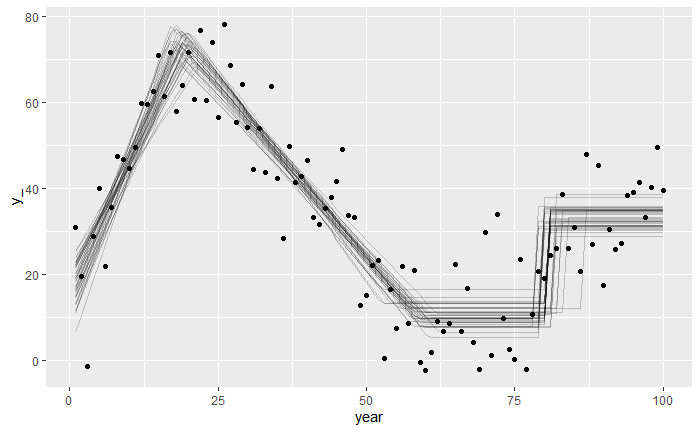
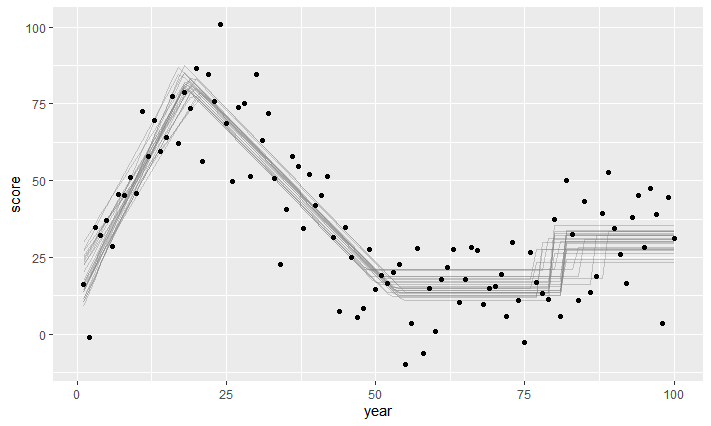
Updated fixed value stuff #16

diff --git a/README.md b/README.md
@@ -38,6 +38,8 @@ plot(fit)
 Let us specify a fairly complicated model with four segments, i.e., three change points:
 
 ```r
+library(mcp)
+
 # Define the segments that are separated by change points
 segments = list(
   score ~ 1 + year,  # intercept + slope
@@ -88,10 +90,10 @@ Quite uninformative priors are set using data by default. You can see them in `f
 
 ```r
 prior = list(
+  year_1 = "dnorm(0, 5)",  # Slope of segment 1
   int_1 = "dt(10, 30, 1) T(0, )",  # t-distributed prior. Truncated to be positive.
   cp_2 = "dunif(cp_1, 80)",  # second change point is after the first but before 80.
-  year_2 = "dnorm(0, 5)",  # slope of segment 1.
-  cp_3 = 80  # Fixed value
+  year_2 = -2  # Fixed slope of segment 2.
 )
 ```
 
@@ -103,9 +105,8 @@ prior = list(
 
 * Use SD when you specify priors for dt, dlogis, etc. JAGS uses precision but `mcp` converts to precision under the hood via the `sd_to_prec()` function.
 
-* You can fix a parameter to a specific value. Simply set it to a numerical value
-(as `cp_3` above). This is not a hack. A fixed value is a 100% prior belief that
-it is true.
+* You can fix any parameter to a specific value. Simply set it to a numerical value
+(as `year_2` above). A fixed value is a 100% prior belief in that value.
 
 
 ## Fit the model
@@ -113,24 +114,24 @@ This is the easiest step!
 
 ```r
 fit = mcp(segments, data, prior)
-fit 
+fit
 ```
 
 ```
 # A tibble: 8 x 4
   name    mean .lower .upper
   <chr>  <dbl>  <dbl>  <dbl>
-1 cp_1   18.5   15.9   20.7 
-2 cp_2   56.7   42.2   67.7 
-3 cp_3   68.6   46.0   96.0 
-4 int_1  11.3    1.17  21.7 
-5 int_4  16.4   11.0   22.2 
-6 sigma  11.7   10.0   13.4 
-7 year_1  3.72   2.76   4.74
-8 year_2 -5.54  -6.65  -4.45
+1 cp_1   18.9   16.2   21.4 
+2 cp_2   52.4   48.9   55.8 
+3 cp_3   80.7   75.0   88.0 
+4 int_1  14.7    2.50  25.9 
+5 int_4  16.3    8.46  24.3 
+6 sigma  12.8   11.0   14.7 
+7 year_1  3.60   2.52   4.78
+8 year_2 -2     -2     -2   
 ```
 
-(This summary is very preliminary and will be updated)
+(This summary is very limited and will be updated)
 
 
 ## Plots
@@ -144,6 +145,8 @@ plot(fit)
 
 
 By default this draws lines given 25 posterior samples, but change it using `plot(fit, draws=50)`. Of particular interest is how similar the lines are (good precision) and how well they fit to the data. `plot.mcpfit` returns a `ggplot2` object, so you can easily add, e.g., a title: `plot(fit, "combo") + ggtitle("Posteriors and convergence")`.
+
+Notice that the fixed prior on the slope in segment 2 causes parallel lines. The rest of the model adapts.
 
 We may also want to inspect the posterior distributions directly:
 
